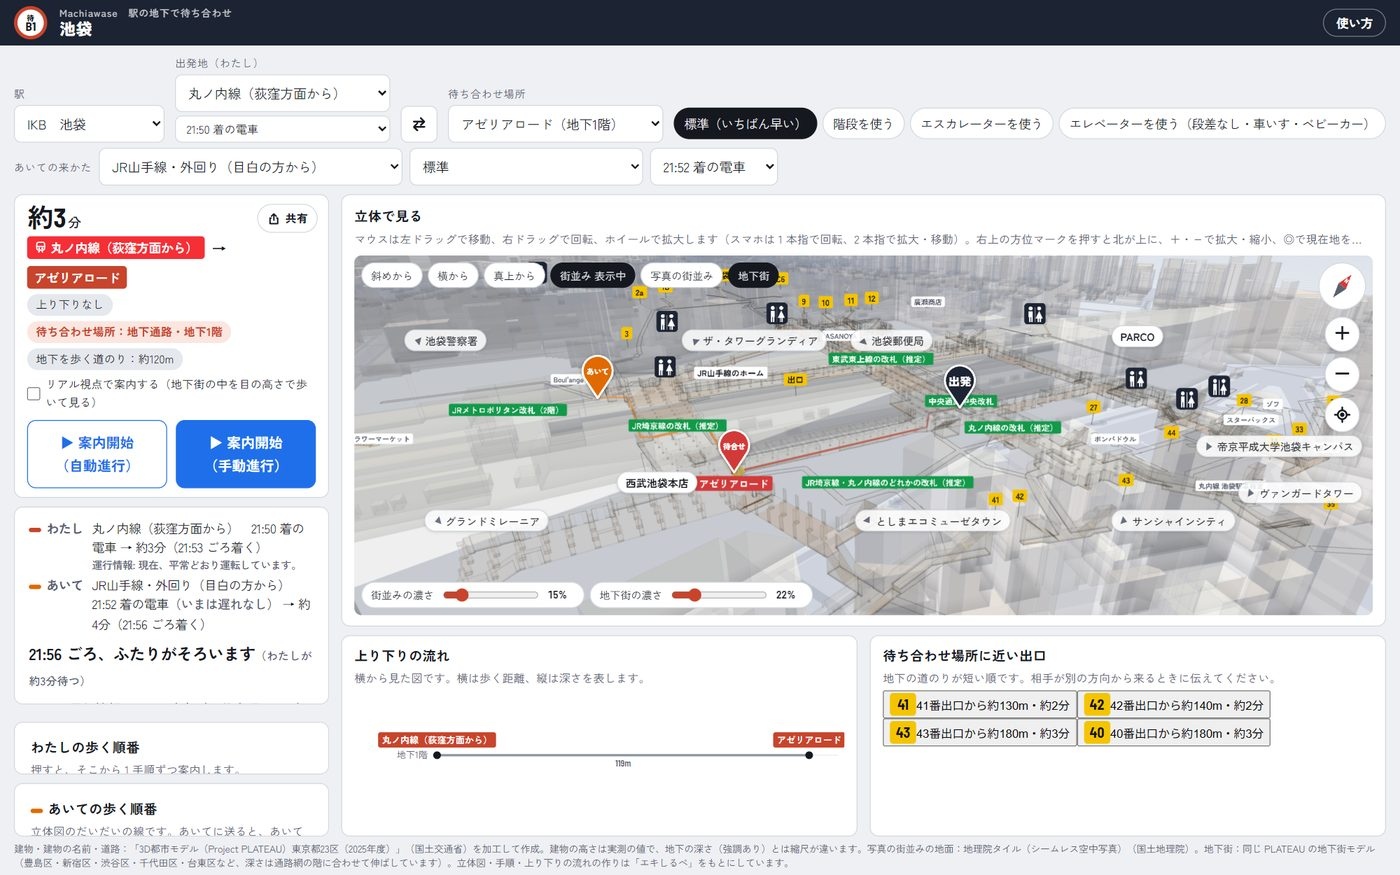
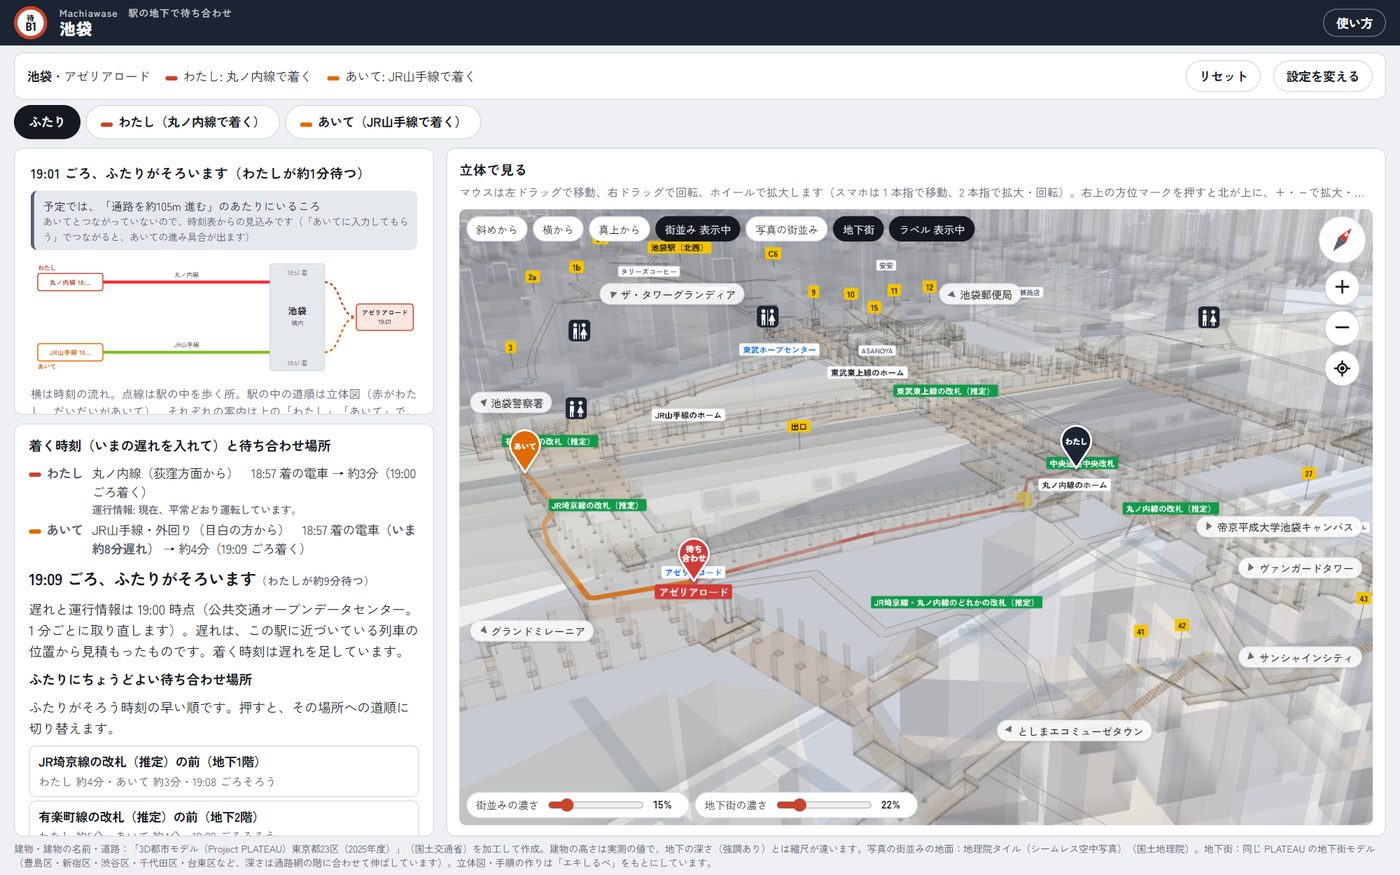
使い方のページを作り直す（画像も）

diff --git a/manual.html b/manual.html
@@ -41,6 +41,7 @@ figure img { width: 100%; height: auto; border-radius: 8px; border: 1px solid va
 figure.phone { max-width: 300px; }
 figcaption { font-size: 13px; color: var(--muted); margin-top: 4px; }
 .two { display: grid; grid-template-columns: minmax(0, 1.6fr) minmax(0, 1fr); gap: 16px; align-items: start; }
+.three { display: grid; grid-template-columns: repeat(3, minmax(0, 1fr)); gap: 14px; align-items: start; }
 table { border-collapse: collapse; width: 100%; font-size: 14px; margin: 8px 0; }
 th, td { border-bottom: 1px solid var(--line); padding: 6px 8px; text-align: left; vertical-align: top; }
 th { color: var(--muted); font-weight: 500; white-space: nowrap; }
@@ -51,7 +52,7 @@ th { color: var(--muted); font-weight: 500; white-space: nowrap; }
 .warn { border-left: 4px solid var(--oedo); padding: 6px 12px; background: var(--faint); border-radius: 0 8px 8px 0; font-size: 14px; }
 footer { font-size: 12px; color: var(--muted); margin-top: 24px; }
 a { color: var(--sel); }
-@media (max-width: 680px) { .two { grid-template-columns: minmax(0, 1fr); } section { padding: 16px; } .sign a { display: none; } }
+@media (max-width: 680px) { .two, .three { grid-template-columns: minmax(0, 1fr); } section { padding: 16px; } .sign a { display: none; } }
 </style>
 </head>
 <body>
@@ -64,9 +65,9 @@ a { color: var(--sel); }
 <main>
 <section>
   <h2>Machiawase とは</h2>
-  <p>別々の電車で来るふたりが、大きな駅の地下（改札・地下街・地下の店）で会うための Web アプリです。ふたりの<b>乗ってくる電車</b>から、<b>ふたりがそろう時刻</b>と、<b>ふたりにちょうどよい待ち合わせ場所</b>を出し、ふたりの道順を立体図と手順で案内します。電車の遅れも反映します。</p>
+  <p>別々の所から来るふたりが、大きな駅の地下（改札・地下街・地下の店）で会うための Web アプリです。ふたりの<b>出発駅・バス停</b>（または乗ってくる電車）から、<b>乗る電車・バス</b>、<b>ふたりがそろう時刻</b>、<b>ふたりにちょうどよい待ち合わせ場所</b>を出し、ふたりの道順を立体図と手順で案内します。電車の遅れも反映します。あいてに QR コードで入力してもらい、あいてがどこまで進んでいるかも見られます。</p>
   <p>対応している駅: <span class="chip">池袋</span> <span class="chip">新宿</span> <span class="chip">渋谷</span> <span class="chip">東京</span> <span class="chip">上野</span> <span class="chip">銀座（有楽町・日比谷）</span> <span class="chip">大手町</span> <span class="chip">日本橋</span></p>
-  <figure><img src="manual/01_overview.jpg" alt="池袋駅で、わたしは丸ノ内線、あいては JR山手線で来るときの画面" loading="lazy"><figcaption>池袋駅で、わたしは丸ノ内線（荻窪方面から）、あいては JR山手線（外回り）で来るとき。左に「ふたりの到着」、右に立体図。</figcaption></figure>
+  <figure><img src="manual/12_duo_flow.jpg" alt="池袋駅で、わたしは朝霞、あいては新座から来るときのふたりの画面" loading="lazy"><figcaption>池袋駅で、わたしは朝霞駅、あいては新座駅から来るとき（「ふたり」の画面）。左にふたりの流れの図、右にふたりの道順の立体図。</figcaption></figure>
 </section>
 
 <section>
@@ -76,11 +77,13 @@ a { color: var(--sel); }
     <li>「待ち合わせ場所」で、<b>駅</b>・<b>場所</b>・<b>合流日時</b>を選びます。場所は、立体図の改札・店などの札や建物の名前を押しても選べます。</li>
     <li><b>出発地（わたし）</b>で、自分の来かたを選びます。電車で来るときは「電車で着く」の中から、路線と方面（「丸ノ内線（荻窪方面から）」「JR山手線・外回り（目白の方から）」など）を選びます。地上の場所（ハチ公前・東京都庁前など）や出口から来るときは、その場所を選びます。</li>
     <li>家の最寄り駅などから来るときは、「<b>出発駅・バス停から乗り換えて来る</b>」を選び（駅名・バス停名は、ひらがなでも探せます。候補には路線の色の札が出ます。時刻表の無い駅や、その日に便の無いバス停は「案内できません」と理由を出します）、<b>出発駅（またはバス停）</b>と<b>合流日時</b>を入れます。合流日時に待ち合わせ場所へ着ける、いちばん遅い電車・バスを探し、出る駅と時刻・乗り換える駅・降りる車両（進行方向の前から何両目あたりか）・出る改札を出します。電車の乗り換えは 2 回まで、バスの乗り換えは 1 回までです。</li>
-    <li>電車で来るときは、その下の欄で<b>乗ってくる電車</b>（この駅に着く時刻）を選びます。いまの 5 分前から 4 時間先までの電車が、時刻表の順に並びます。並んでいない時刻は「時刻を入れる…」で入れられます。</li>
+    <li>「電車で着く」を選んだときは、その下の欄で<b>乗ってくる電車</b>（この駅に着く時刻）を選びます。いまの 5 分前から 4 時間先までの電車が、時刻表の順に並びます。並んでいない時刻は「時刻を入れる…」で入れられます。</li>
     <li>あいての来かたを、あいてに入れてもらうこともできます。「あいての出発地」の来かたで「<b>あいてに入力してもらう（QRコード）</b>」を選び、出てきた QR コードかリンクをあいてに送ります。あいてが来かたを入れると、こちらの画面に数秒で出ます。</li>
     <li><b>あいての来かた</b>で、あいての来かた・条件（標準／段差なし）・乗ってくる電車を同じように選びます。ひとりで道順だけ調べるときは「－」のままにします。</li>
     <li><b>待ち合わせ場所</b>を選びます（あとで、下の「ふたりにちょうどよい待ち合わせ場所」からも選べます）。改札・地下街・地下通路・カフェ・店などから選べます。</li>
   </ol>
+  <figure><img src="manual/18_search.jpg" alt="出発駅の欄にしんじゅくと入れたときの候補" loading="lazy"><figcaption>出発駅・バス停の候補。駅名の合う所を色で、読みがな、路線の色の札。案内できない駅は理由を添えて下に</figcaption></figure>
+  <figure><img src="manual/17_invite_qr.jpg" alt="あいてに入力してもらう QR コードのダイアログ" loading="lazy" style="max-width:520px"><figcaption>「あいてに入力してもらう（QRコード）」。閉じても 5 秒ごとに読みに行き、あいての入力が届くと「あいて」に出ます</figcaption></figure>
   <div class="note">着く時刻は、公共交通オープンデータセンター（ODPT）の駅時刻表・列車時刻表から取っています。土日は土休日の時刻表です（祝日は平日の時刻表になります）。西武池袋・西武新宿・小田急新宿・東急渋谷に着く電車は、時刻表のデータが無いので時刻を入れてください。</div>
 </section>
 
@@ -88,11 +91,13 @@ a { color: var(--sel); }
   <h2><span class="no">2</span>ふたり・わたし・あいての画面</h2>
   <p>あいてを選ぶと、設定の下に「<b>ふたり</b>」「<b>わたし</b>」「<b>あいて</b>」の切り替えが出ます。</p>
   <ul>
-    <li><b>ふたり</b>: 「ふたりの流れ」に、ふたりそれぞれの出発・乗り換え・着く駅・出る改札・待ち合わせ場所に着く時刻を 2 列で並べ、下に「10:00 ごろ、◯◯でそろう」とまとめます。駅の中の道順は立体図に、わたし（赤）とあいて（だいだい）の 2 本で出します。</li>
+    <li><b>ふたり</b>: 「ふたりの流れ」の図に、ふたりの出発（駅・時刻）、乗る区間（路線の色の線）、乗り換え、着く駅、駅の中を歩く所（点線）、待ち合わせ場所とそろう時刻を横に並べます。見出しは「10:00 ごろ、ふたりがそろいます（あいてが約2分待つ）」。「くわしく」を開くと、出る改札・歩く時間の一覧も見られます。駅の中の道順は立体図に、わたし（赤）とあいて（だいだい）の 2 本で出します。</li>
     <li><b>わたし</b>: わたしの電車（乗換案内）と歩く順番・立体図で、1 手順ずつ案内します。</li>
     <li><b>あいて</b>: あいての電車と歩く順番・立体図を<b>見るだけ</b>の画面です（案内開始のボタンはありません。手順を押すと立体図でその場所を見せます）。</li>
   </ul>
+  <figure><img src="manual/13_flow.jpg" alt="ふたりの流れの図" loading="lazy"><figcaption>ふたりの流れの図（あいてがいま乗っている所が、見出しの下に出ます）</figcaption></figure>
   <p><b>あいてがどこまで進んだか</b>: 「あいてに入力してもらう（QRコード）」でつながっていると、あいてが案内カードを進めるたびに、あいての画面とふたりの画面に「<b>あいてはいま 3 / 7</b>：9:36 朝霞台で、東武東上線に乗る（1分前に案内を進めました）」と出ます。あいての画面では、その行に「いま」の印、立体図に青い「いま」のピンが出ます。つながっていないときや、あいてがまだ案内をはじめていないときは、合流日の当日なら時刻表から「予定では、北朝霞で乗り換えているころ」と見込みを出します。</p>
+  <figure><img src="manual/16_partner_progress.jpg" alt="あいての画面に、あいての進み具合の見込みが出ている" loading="lazy"><figcaption>「あいて」の画面。あいての進み具合（ここでは時刻表からの見込み）と、その行の「いま」の印</figcaption></figure>
   <p><b>待ち合わせを変えたとき</b>: 共有したあとに、誘った人が待ち合わせの駅・場所・日時を変えると、あいての画面の下に「<b>あいてが待ち合わせを変えました</b>」と、変わった所（前 → 新しい）が出ます。あいての案内も新しい待ち合わせで出し直します。</p>
   <p><b>出口</b>: 出口の番号は駅・地下街ごとに振られているので、この駅の出口は「6番出口」、ほかの駅・地下街の出口は「新宿サブナード 6番出口」「都庁前駅 A1番出口」のように、どこの出口かを添えて出します（選択肢も「この駅」と「ほかの駅・地下街」に分けています）。</p>
   <p>案内の上の大きな「約◯分」は<b>歩く時間</b>です（電車で来るときは、駅に着いてから待ち合わせ場所まで。電車・バスの時間は入りません）。</p>
@@ -141,12 +146,14 @@ a { color: var(--sel); }
 
 <section>
   <h2><span class="no">7</span>道順の案内</h2>
-  <p>左の「わたしの歩く順番」は、乗ってきた電車から始まります（「丸ノ内線（荻窪方面から）で着いて、中央通路中央改札を出る」）。「あいての歩く順番」も並べて出します。</p>
+  <p>「わたし」の画面の左に、<b>電車と歩く順番</b>が出ます。乗換案内で来るときは、出る駅と時刻・乗り換え・降りる駅（降りる車両）の下に、駅の中を歩く手順が続きます。歩く手順は、乗ってきた電車から始まります（「丸ノ内線（荻窪方面から）で着いて、中央通路中央改札を出る」）。手順には「地上」「地下1階」の札が付きます。</p>
+  <figure><img src="manual/14_itin.jpg" alt="わたしの画面の電車と歩く順番" loading="lazy"><figcaption>電車と歩く順番（朝霞から池袋へ）</figcaption></figure>
   <ul>
-    <li>乗換案内で来るときは、歩く手順の前に<b>電車・バスのカード</b>が出ます: 乗る（路線の帯の図）・乗り換える（乗り換えの図）・降りる（編成の図で、進行方向の前から何両目か）。</li>
+    <li>歩く手順の前に<b>電車・バスのカード</b>が出ます: 乗る（路線の帯の図）・乗り換える（乗り換えの図）・降りる（編成の図で、進行方向の前から何両目か）。カードのあいだ、立体図の場所に<b>路線図</b>（地理院地図の上に、乗る区間を路線の色で）が出ます。電車の行を押すと、そのカードから案内します。</li>
     <li><b>▶ 案内開始（手動進行）</b>: 1 手順ずつ「つぎへ」で進めます（キーボードの ← → でも）。移動中はこちらが便利です。</li>
     <li><b>▶ 案内開始（自動進行）</b>: 立体図の中を自動で歩き、手順の案内カードも進みます。止める・再開・続きからにも対応します。</li>
   </ul>
+  <figure><img src="manual/15_ride_card.jpg" alt="電車のカードと路線図" loading="lazy"><figcaption>電車のカード（降りる車両の図）と、地理院地図の上の路線図</figcaption></figure>
   <figure><img src="manual/03_nav_arrive.jpg" alt="手動進行の案内。案内カードに電車を降りて改札を出る手順" loading="lazy"><figcaption>電車を降りて改札を出る手順から案内する</figcaption></figure>
 </section>
 
@@ -165,9 +172,10 @@ a { color: var(--sel); }
 
 <section>
   <h2><span class="no">9</span>スマートフォンで</h2>
-  <div class="two">
-    <figure class="phone"><img src="manual/08_mobile_meet.jpg" alt="スマートフォンでふたりの到着の欄を見ている画面" loading="lazy"><figcaption>ふたりの到着</figcaption></figure>
-    <figure class="phone"><img src="manual/09_mobile_nav.jpg" alt="スマートフォンで案内している画面" loading="lazy"><figcaption>案内中は、立体図が上に、案内カードがその下に出ます</figcaption></figure>
+  <div class="three">
+    <figure class="phone"><img src="manual/19_mobile_flow.jpg" alt="スマートフォンでふたりの流れを見ている画面" loading="lazy"><figcaption>ふたりの流れ</figcaption></figure>
+    <figure class="phone"><img src="manual/20_mobile_ride.jpg" alt="スマートフォンで電車のカードを見ている画面" loading="lazy"><figcaption>電車のカードのあいだは、図を大きく出します</figcaption></figure>
+    <figure class="phone"><img src="manual/09_mobile_nav.jpg" alt="スマートフォンで案内している画面" loading="lazy"><figcaption>歩く案内中は、立体図が上に、案内カードがその下に出ます</figcaption></figure>
   </div>
 </section>
 
@@ -189,6 +197,7 @@ a { color: var(--sel); }
     <tr><th>地上の歩道</th><td>国土交通省「歩行空間ネットワークデータ」（池袋駅周辺・東京駅周辺・台東区上野駅周辺・渋谷駅、千駄ヶ谷駅周辺／新宿駅周辺。政府標準利用規約 第2.0版）</td></tr>
     <tr><th>地下の通路・出口・改札・待ち合わせ場所・トイレ</th><td>© OpenStreetMap contributors（ODbL）</td></tr>
     <tr><th>建物・道路・地下街・写真の街並み</th><td>「3D都市モデル（Project PLATEAU）東京都23区（2025年度）」（国土交通省）を加工して作成。写真の街並みの地面は地理院タイル（シームレス空中写真）（国土地理院）、地表の高さは国土地理院の標高 API とジオイド高 API</td></tr>
+    <tr><th>電車・バスの路線図</th><td>地理院タイル（淡色地図）（国土地理院）の上に、ODPT・都営バスの駅・停留所の位置で描いています</td></tr>
     <tr><th>立体図・案内の作り</th><td>「エキしるべ」（同じ作者の公共交通オープンデータチャレンジ2026 応募作品）をもとにしています</td></tr>
   </table>
 </section>
